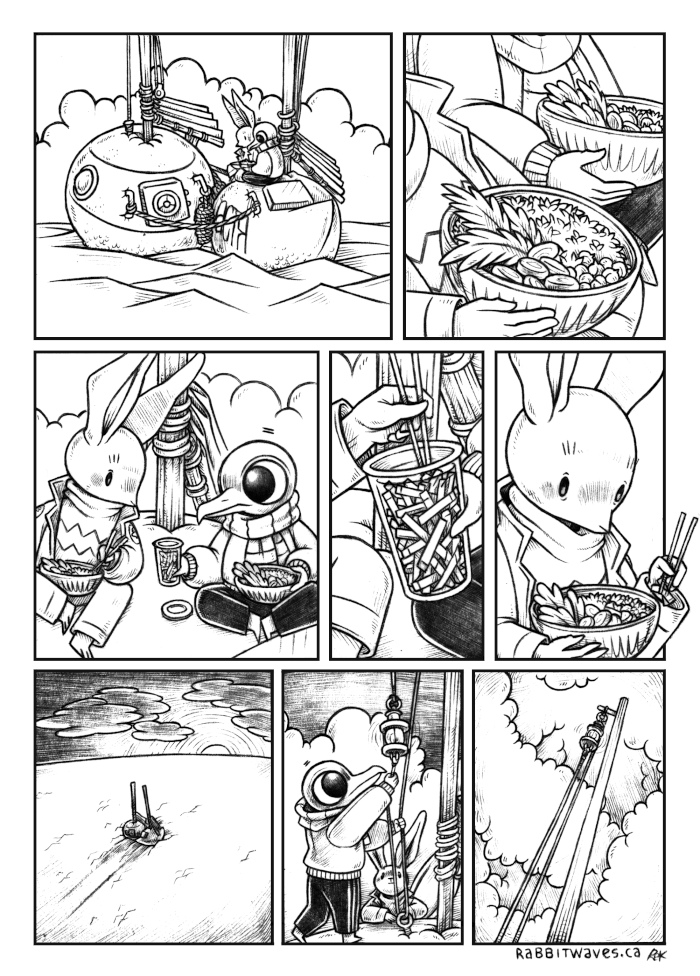
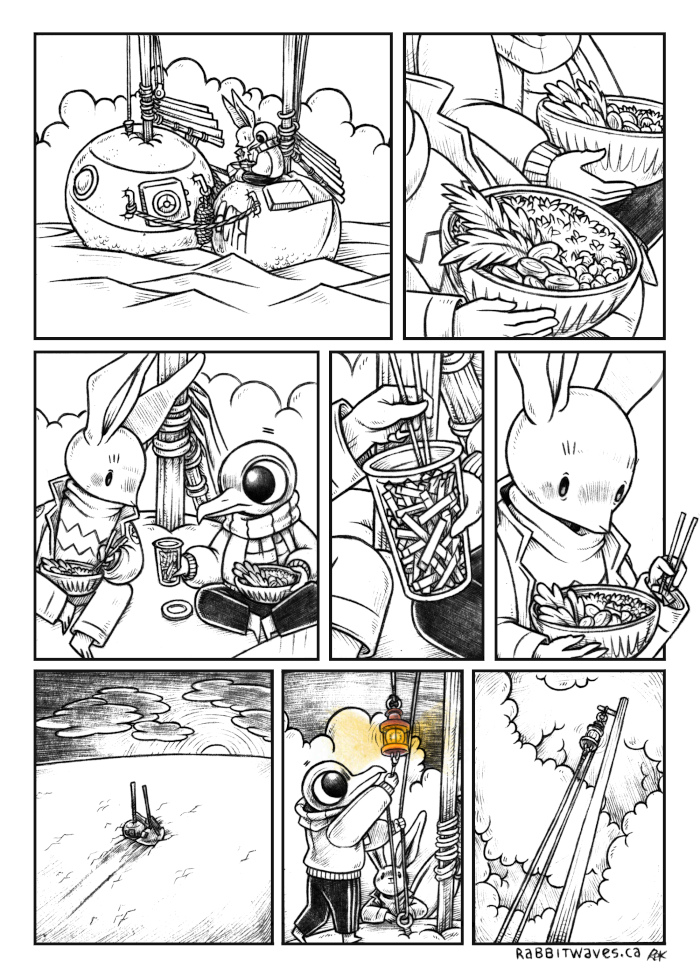
*

Changed region(s): [[0.45, 0.707, 0.66, 0.7992]]

diff --git a/site/flags_maritime.html b/site/flags_maritime.html
@@ -59,8 +59,10 @@
 	<img src='../media/content/2024_howtosignal_flags.jpg' alt='There are a series of illustrations showing two birds, a murrelet and a gull, on separate vegetable-shaped sailboats. Drawing 1: A murrelet raises a Kilo flag to mean "I wish to communicate with you." The gull watches from their vessel. Drawing 2: The herring gull raises an answering pennant(striped red and white flag) to mean that the signal was understood. Drawing 3: The murrelet raises a Romeo flag followed by a Foxtrot flag, to mean "Will you lead me to a safe anchorage?" Drawing 4: The herring gull raises an answering pennant to mean that the signal was understood. Drawing 5: The herring gull raises a Charlie flag to mean "Affirmative." Drawing Six: The murrelet raises an answering pennant to mean that the signalling is now over. Drawing Seven: The herring gull raises an answering pennant to mean that the signal was understood' loading='lazy'>
 	<img src='../media/content/2024_notunderstand_flags.jpg' alt='A drawing shows two birds on separate boats, the herring gull did not understand the murrelets message and has kept the answering pennant up. Another way to signal that the message was not understood is to fly the Zulu and Lima flags, to mean that the signal has been received but not understood.' loading='lazy'>
 	<h2>Monochrome Signal Flags</h2>
-	<img src='../media/content/mono_flags_03.jpg' alt='' loading='lazy'>
-	<img src='../media/content/mono_flags_02.jpg' alt='' loading='lazy'>
+	<img src='../media/content/mono_flags_03.jpg' alt='a graphic showing the signal flags with the colors appearing as patterns' loading='lazy'>
+	<p class='noprint'>Monochrome Signal Flags</p>
+	<img src='../media/content/mono_flags_02.jpg' alt='a graphic shows patterns for white(blank square), yellow(evenly spaced dots), red(series of vertical lines), black(intersecting horizontal and vertical lines) and blue(horizontal lines)' loading='lazy'>
+	<p class='noprint'>Hatching is a technique used when drawing heraldry, assigning patterns to colors so they are readable in a monochrome image.<br>While it is not a convention typically applied to signal flags, we thought it would be a god way to communicate colors in a monochrome image.<br>Note that the signal flags were designed to be recognizable in monochrome thanks to varying geometric patterns and light and dark values, but with hatching someone learning the signal flags could know the colors from a monochrome image.<br>(in the image yellow was assigned the pattern for gold)</p>
 	<div id='wrap'>
 		<img src='../media/content/mono_flags_01.jpg' alt='' loading='lazy'>
 	    <a style='width: 25%;height: 16%;top: 1%;left: 60%;' title="hatching in heraldry" href="https://en.wikipedia.org/wiki/Hatching_(heraldry)" target="_blank"><span>Hatching(heraldry)</span></a>

diff --git a/index.html b/index.html
@@ -52,7 +52,10 @@ The rabbit opens a jar of coffee beans and roasts them in a cast iron pan over t
 <a style='width: 15%;height: 15%;top: 60%;left: 26%;' title='Link to a page about pen and paper ciphers' href="site/hand_ciphers.html"><span>Pen and Paper Ciphers</span></a>
 <a style='width: 15%;height: 15%;top: 81%;left: 16%;' title='Link to a page about pen and paper ciphers' href="site/hand_ciphers.html"><span>Pen and Paper Ciphers</span></a>
 </div>
-<img src='media/comic/p4.jpg' alt='A comic showing a rabbit and a gull sitting atop a raft up of two root-vegetable shaped sailboats, they are eating food. The gull hands an opened jar of pickled foods over to the rabbit, who puts some in their bowl. The sun is slowly setting, the gull hoists up the mast light for the night.'>
+<div id='wrap'>
+  <img src='media/comic/p4.jpg' alt='A comic showing a rabbit and a gull sitting atop a raft up of two root-vegetable shaped sailboats, they are eating food. The gull hands an opened jar of pickled foods over to the rabbit, who puts some in their bowl. The sun is slowly setting, the gull hoists up the mast light for the night.'>
+  <a style='width: 15%;height: 15%;top: 69%;left: 48%;' title='Link to a page about ship lights' href="site/ship_lights.html"><span>Ship Lights</span></a>
+</div>
   <img src='media/interface/pages.jpg' alt='Knowledge:' class='title'>
   <a href="site/boatswain_call.html"><img src='media/interface/boatswain_call.jpg' title='Boatswains Call'></a>
   <a href="site/celestial_compass.html"><img src='media/interface/celestial_compass.jpg' title='Celestial Compass'></a>
